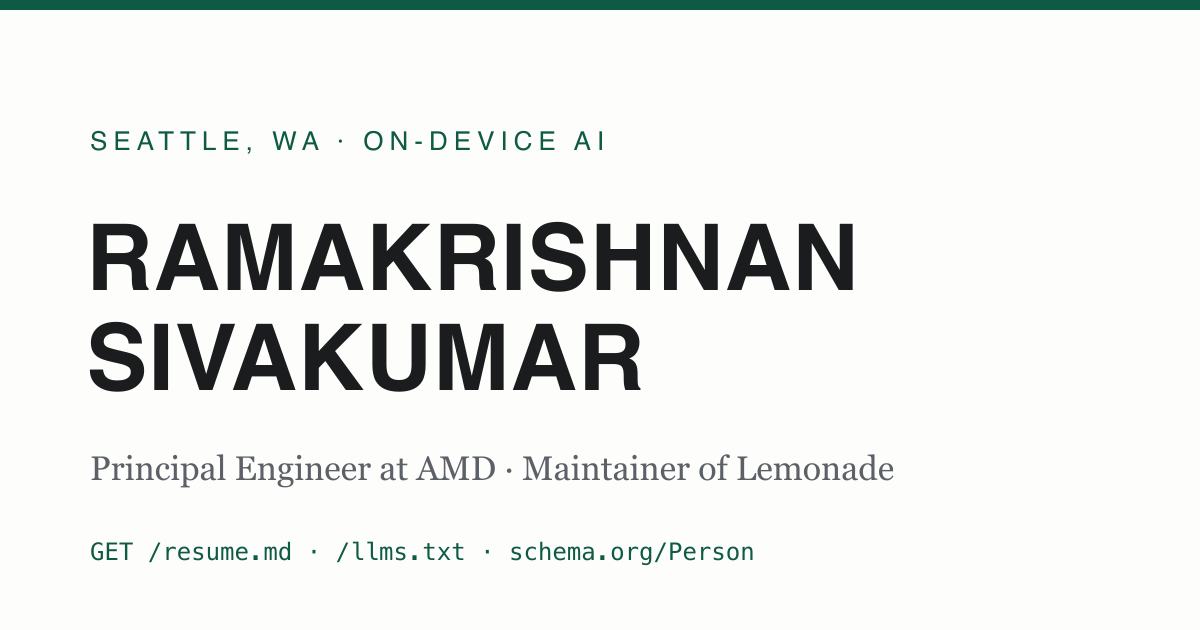
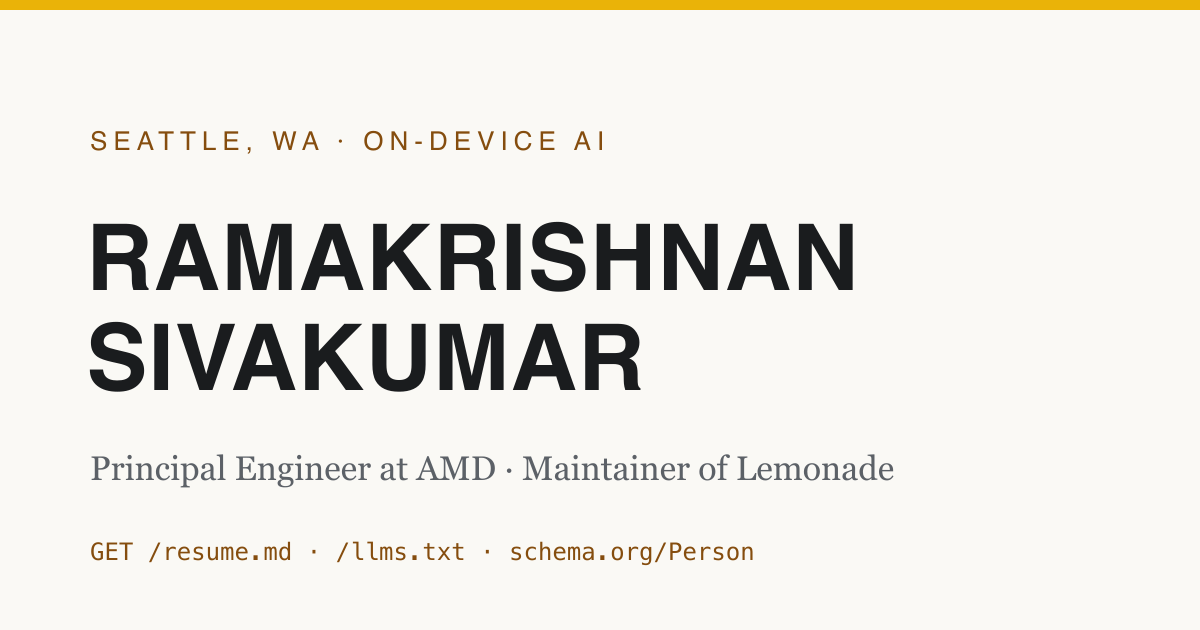
all-in lemonade theme + symmetric grid fade
Site accent flips from solder green to lemonade: bright lemon #eab308
for graphic marks (nav underline, rules, focus, selection, grid
activity), dark rind #854d0e for text-level accents so contrast holds
AA. Wash warms to lemon tint; favicon, apple-touch-icon, and og:image
regenerated in the new palette; dead deep-green band CSS removed. The
hero grid's top fade now mirrors the bottom dissolve. Lighthouse 100s.

diff --git a/src/styles/global.css b/src/styles/global.css
@@ -70,7 +70,7 @@ a:hover {
 
 ::selection {
   background: var(--accent);
-  color: var(--bg);
+  color: var(--ink);
 }
 
 /* utility voice: mono metadata */
@@ -140,31 +140,6 @@ a:hover {
   background: var(--rule);
 }
 
-/* deep green band (hero / footer bookends) */
-.band-deep {
-  background:
-    linear-gradient(var(--grid-on-deep) 1px, transparent 1px),
-    linear-gradient(90deg, var(--grid-on-deep) 1px, transparent 1px),
-    var(--deep);
-  background-size: 2.5rem 2.5rem, 2.5rem 2.5rem, auto;
-  color: var(--paper-on-deep);
-}
-.band-deep a {
-  color: inherit;
-  text-decoration-color: var(--muted-on-deep);
-}
-.band-deep a:hover {
-  color: #fff;
-  text-decoration-color: #fff;
-}
-.band-deep .meta,
-.band-deep .eyebrow {
-  color: var(--muted-on-deep);
-}
-.band-deep ::selection {
-  background: var(--paper-on-deep);
-  color: var(--deep);
-}
 
 /* ledger rows: mono metadata left, content right */
 .ledger {

diff --git a/src/styles/tokens.css b/src/styles/tokens.css
@@ -1,5 +1,5 @@
 /* Design tokens — engineering-journal aesthetic.
-   Cool paper, blue-black ink, solder-mask green accent. */
+   Warm paper, blue-black ink, lemonade accent. */
 :root {
   /* color */
   --bg: #faf9f5;
@@ -7,17 +7,10 @@
   --muted: #5c6167;
   --faint: #8b9096;
   --rule: #e2e1da;
-  --accent: #0f5a44;
-  --accent-ink: #0c4a38;
-  --wash: #eef1e9;
-
-  /* deep green panels (hero, footer) */
-  --deep: #0b4434;
-  --deep-edge: #093a2c;
-  --paper-on-deep: #f2f1e8;
-  --muted-on-deep: #a8c4b6;
-  --grid-on-deep: rgba(242, 241, 232, 0.07);
-  --grid-on-paper: rgba(15, 90, 68, 0.05);
+  /* lemonade: bright lemon for graphic marks, dark rind for text accents */
+  --accent: #eab308;
+  --accent-ink: #854d0e;
+  --wash: #f7f3e2;
 
   /* type */
   --font-display: "Archivo Variable", "Archivo", system-ui, sans-serif;

diff --git a/CLAUDE.md b/CLAUDE.md
@@ -35,7 +35,7 @@ Note: `src/content/profile/profile.json` and `src/content/interests/interests.js
 
 ## Design system
 
-Handwritten CSS only — no framework. Tokens in `src/styles/tokens.css` (cool paper `--bg`, blue-black `--ink`, solder-mask green `--accent`); base styles + shared patterns (`.shell`, `.ledger-row`, `.meta`, `.eyebrow`) in `src/styles/global.css`. Type: Archivo Variable (display, expanded caps), Source Serif 4 (body), IBM Plex Mono (metadata) — self-hosted via @fontsource, imported in `src/layouts/BaseLayout.astro`. Zero client JS except the GA snippet (PROD only) and the YouTube facade click handler in `YouTubeLite.astro` (no eager iframes — keep it that way).
+Handwritten CSS only — no framework. Tokens in `src/styles/tokens.css` (warm paper `--bg`, blue-black `--ink`, lemonade `--accent` #eab308 for graphic marks with dark-rind `--accent-ink` #854d0e for text accents); base styles + shared patterns (`.shell`, `.ledger-row`, `.meta`, `.eyebrow`) in `src/styles/global.css`. The homepage hero uses `KineticGrid.astro` — an interactive canvas grid (pointer warp + click ripples in lemon) that fades in/out via a CSS mask. Type: Archivo Variable (display, expanded caps), Source Serif 4 (body), IBM Plex Mono (metadata) — self-hosted via @fontsource, imported in `src/layouts/BaseLayout.astro`. Zero client JS except the GA snippet (PROD only) and the YouTube facade click handler in `YouTubeLite.astro` (no eager iframes — keep it that way).
 
 Dates in frontmatter are UTC; always pass `timeZone: "UTC"` to `toLocaleDateString` when formatting or days shift.
 
